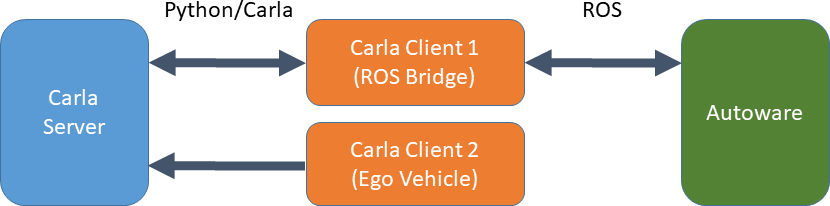
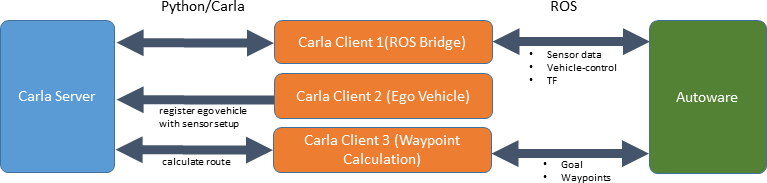
Cleanup manual control override. Update documentation

diff --git a/README.md b/README.md
@@ -85,7 +85,6 @@ Now you can start the Autoware Stack by starting all launch files from top to bo
 
 ![Autoware Runtime Manager Settings](docs/images/autoware-rviz-carla-town01-running.png)
 
-
 A special camera is positioned behind the car to see the car and its environment.
 You can subscribe to it via ```/carla/ego_vehicle/camera/rgb/viewFromBehind/image_color```.
 
@@ -97,12 +96,35 @@ To let the carla autoware bridge connect to a remote Carla Server, execute rosla
     roslaunch host:=<hostname> port:=<port number> carla_autoware_bridge carla_autoware_bridge.launch
 
 
+## Development support
 
-# Design
+### ROS Manual Control
 
-The bridge contains two Carla Clients.
+A manual control is available, that is completely based on ROS. You can execute it either together with the bridge:
 
-1. ROS Bridge - Monitors existing actors in Carla, publishes changes on ROS Topics
-2. Ego Vehicle Client - Instantiation of the ego vehicle. Further communication to Carla is only done for visualization purposes.
+    roslaunch carla_autoware_bridge carla_autoware_bridge_with_manual_control.launch
+
+or separately:
+
+    #execute carla-ros-bridge
+    roslaunch carla_autoware_bridge carla_autoware_bridge
+
+    #execute manual control
+    roslaunch carla_client carla_manual_control.launch
+
+#### Manual steering
+
+Press `B` to be able to steer the ego vehicle within ROS manual control.
+
+Internally, this is done by stopping the conversion from the Autoware control message to AckermannDrive within the node `vehiclecmd_to_ackermanndrive`. The relevant ros-topic is `/vehicle_control_manual_override`.
+
+## Design
+
+The bridge contains three Carla Clients.
+
+1. ROS Bridge - Monitors existing actors in Carla, publishes changes on ROS Topics (e.g. new sensor data)
+2. Ego Vehicle - Instantiation of the ego vehicle with its sensor setup.
+3. Waypoint Calculation - Uses the Carla Python API to calculate a route.
 
 ![Design Overview](docs/images/design.png)
+
